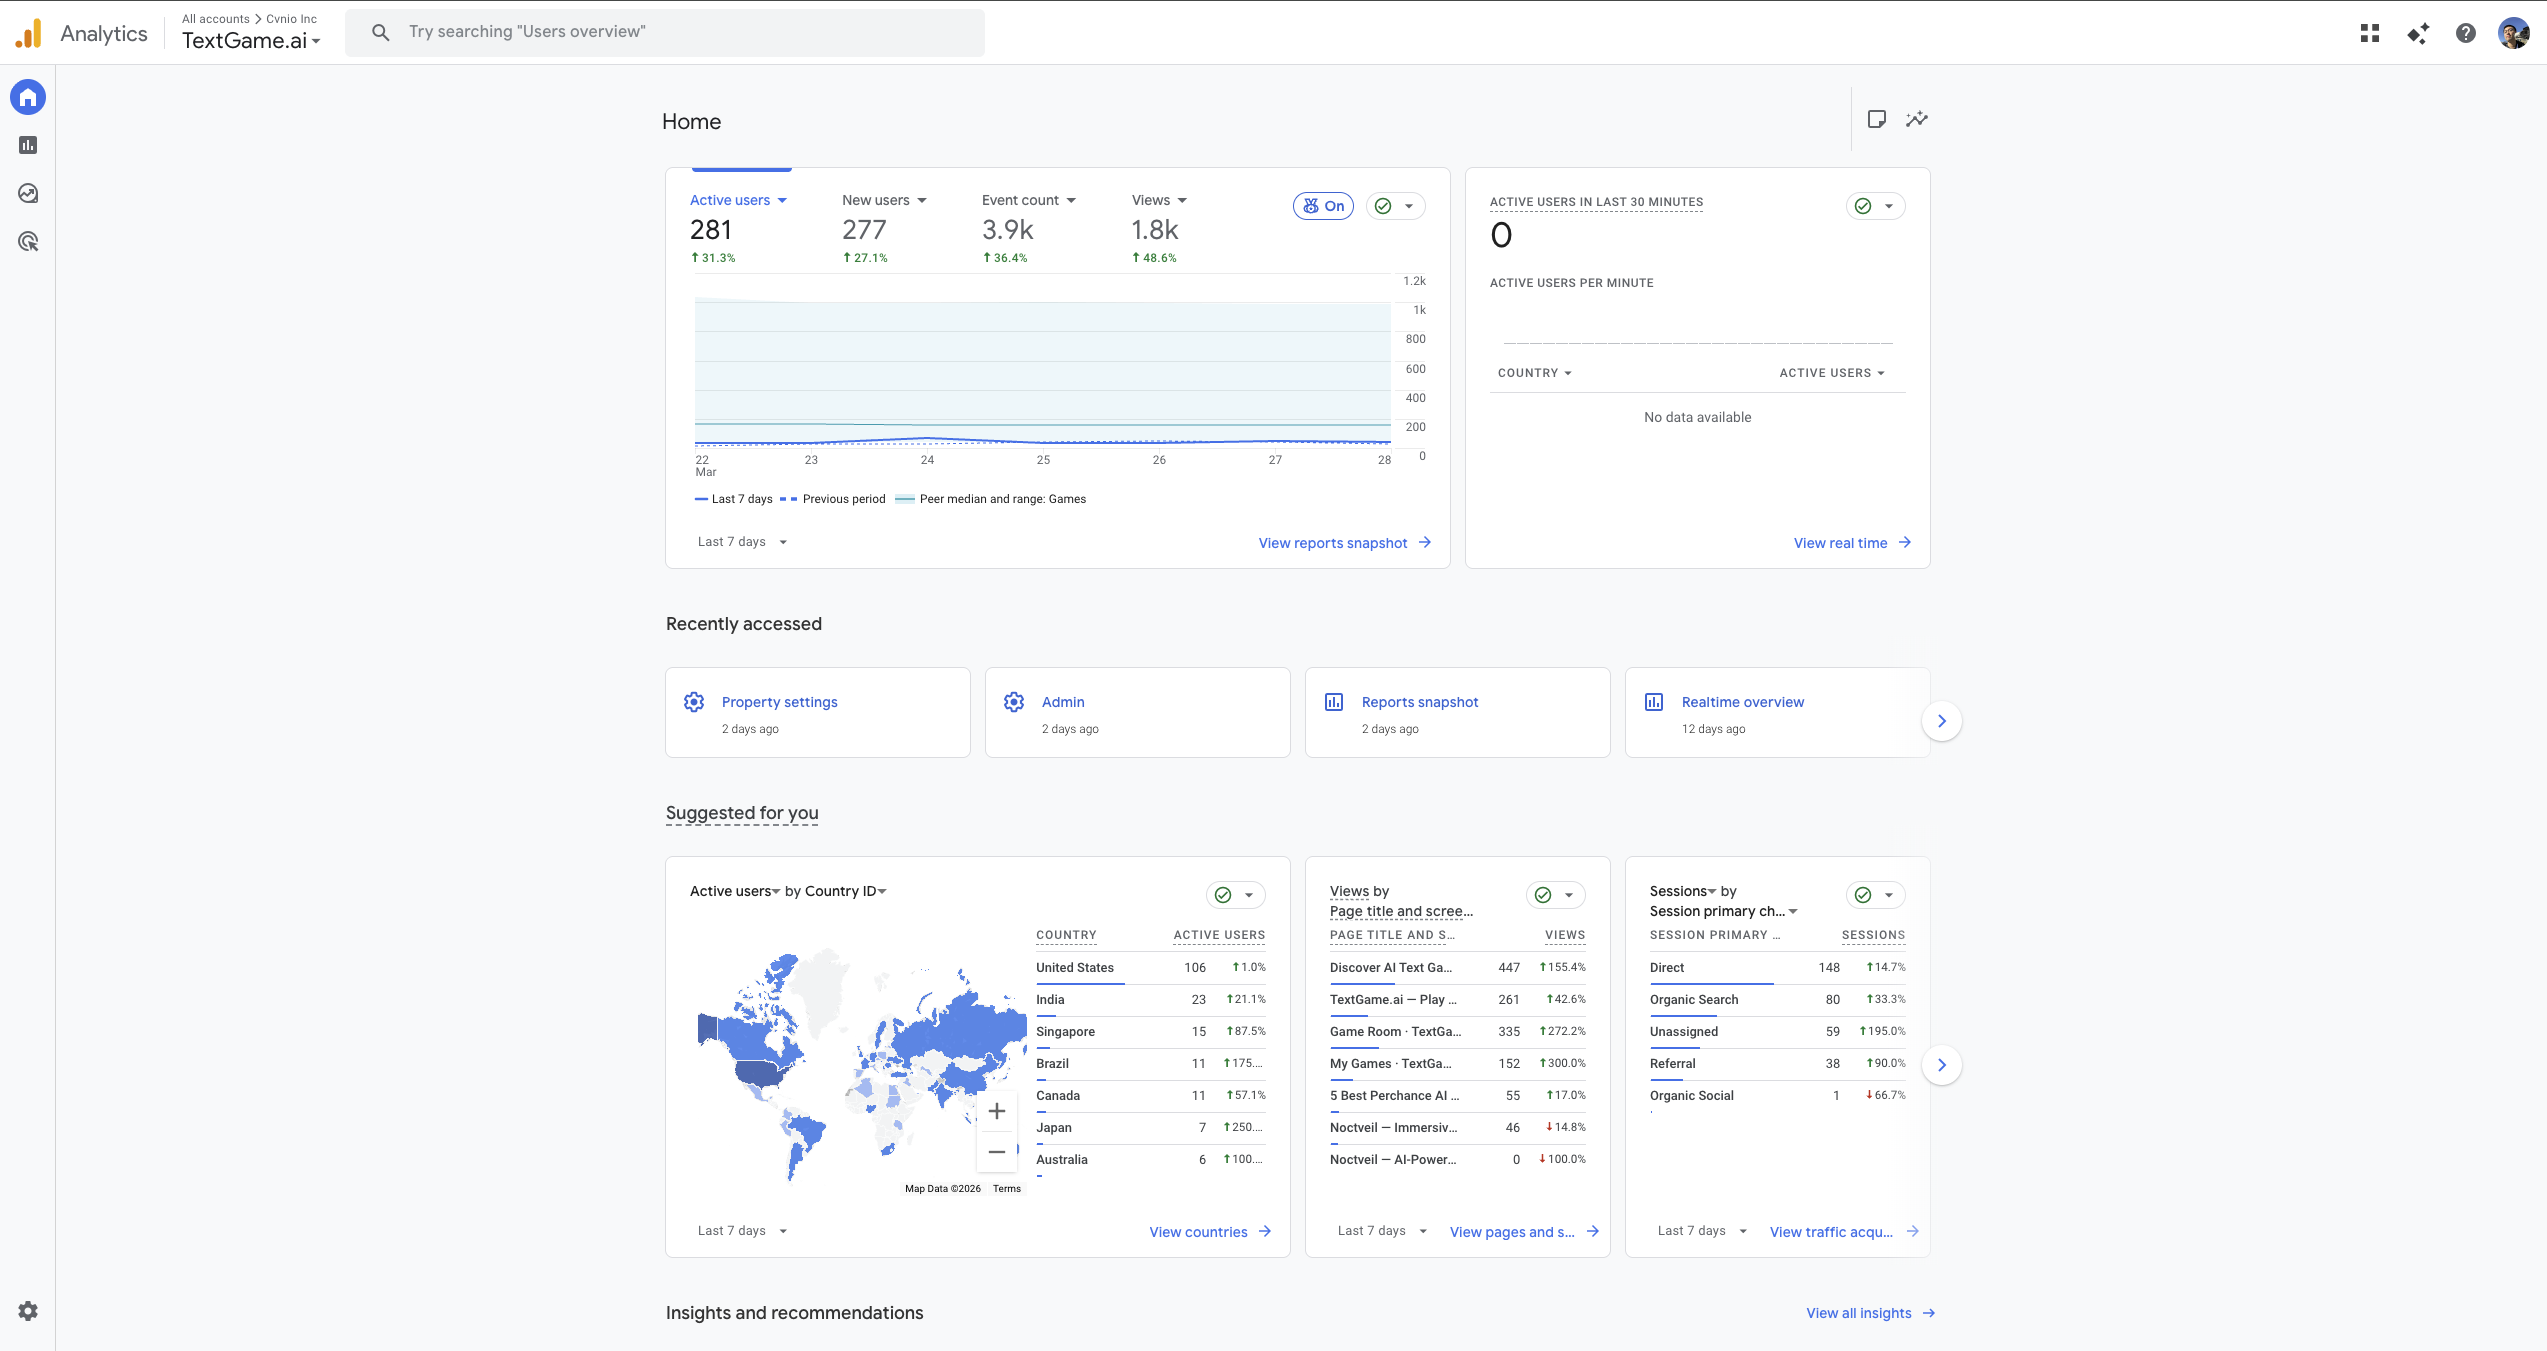
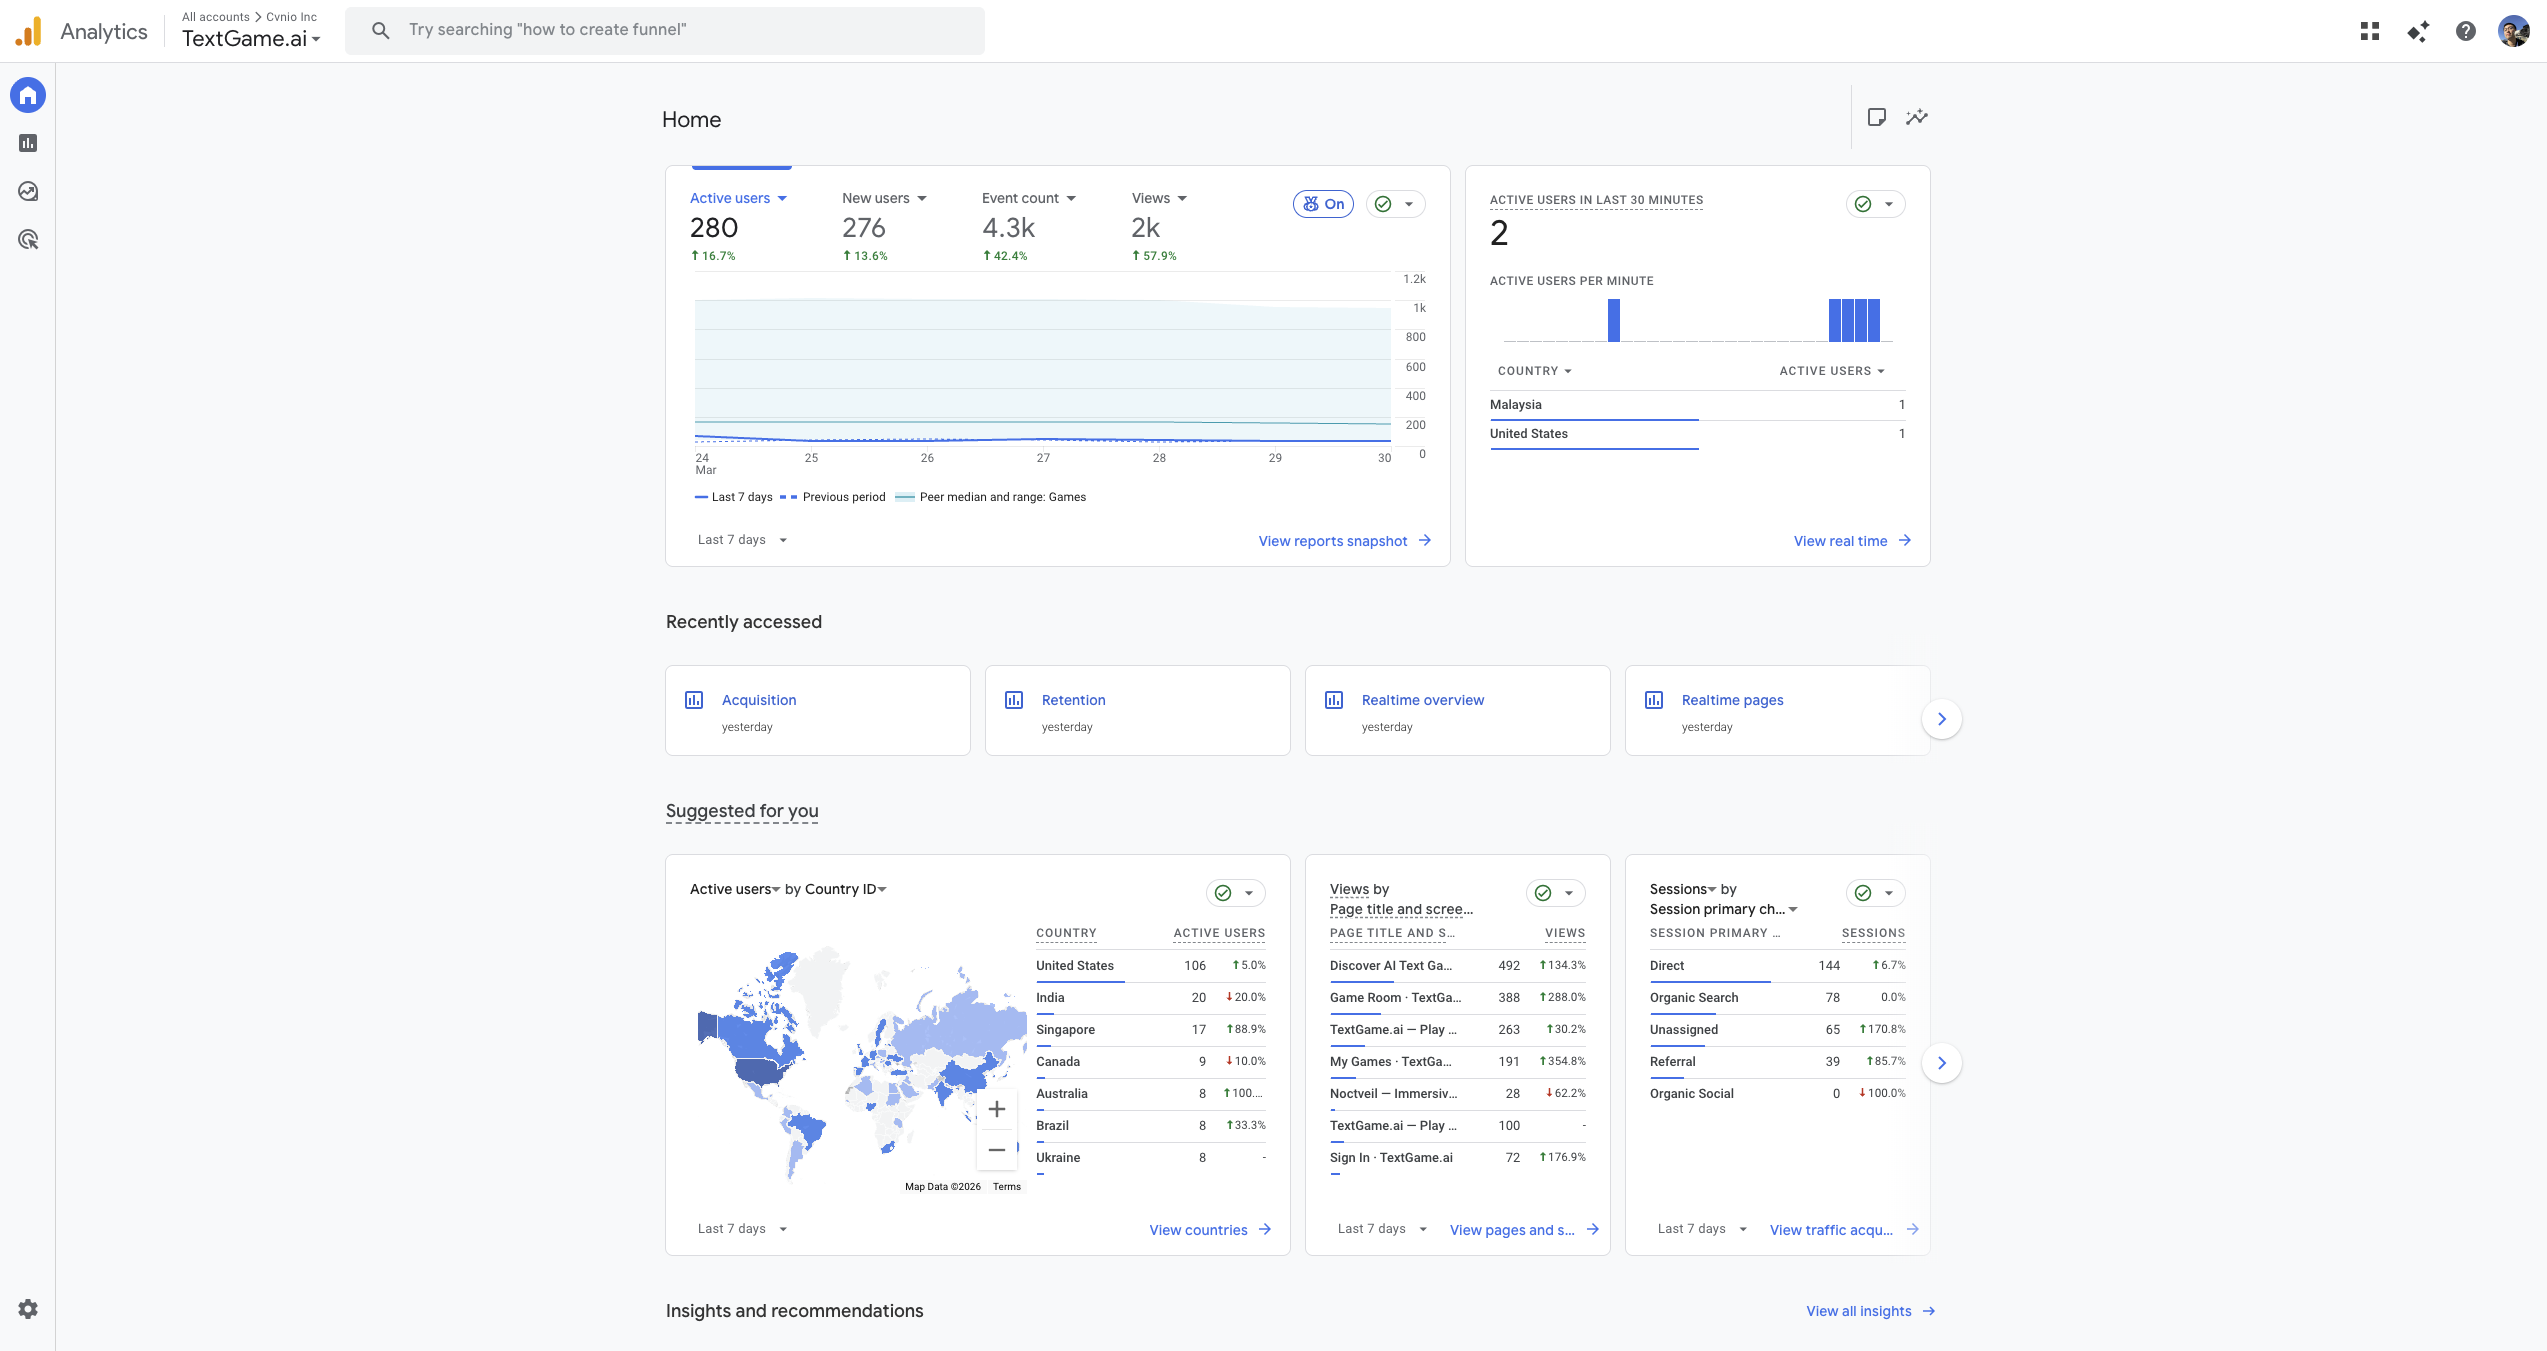
Update TextGame GA4 screenshot with latest data (280 users, 78 organic sessions)
Made-with: Cursor

diff --git a/portfolio.html b/portfolio.html
@@ -415,7 +415,7 @@ footer a:hover { text-decoration: underline; }
         </div>
         <div>
           <img src="assets/textgame-ga4.png" alt="TextGame.ai Google Analytics">
-          <div class="caption">Google Analytics — 281 users from US, India, Singapore, Brazil</div>
+          <div class="caption">Google Analytics — 280 users from 7 countries, 78 organic search sessions</div>
         </div>
       </div>
     </div>
